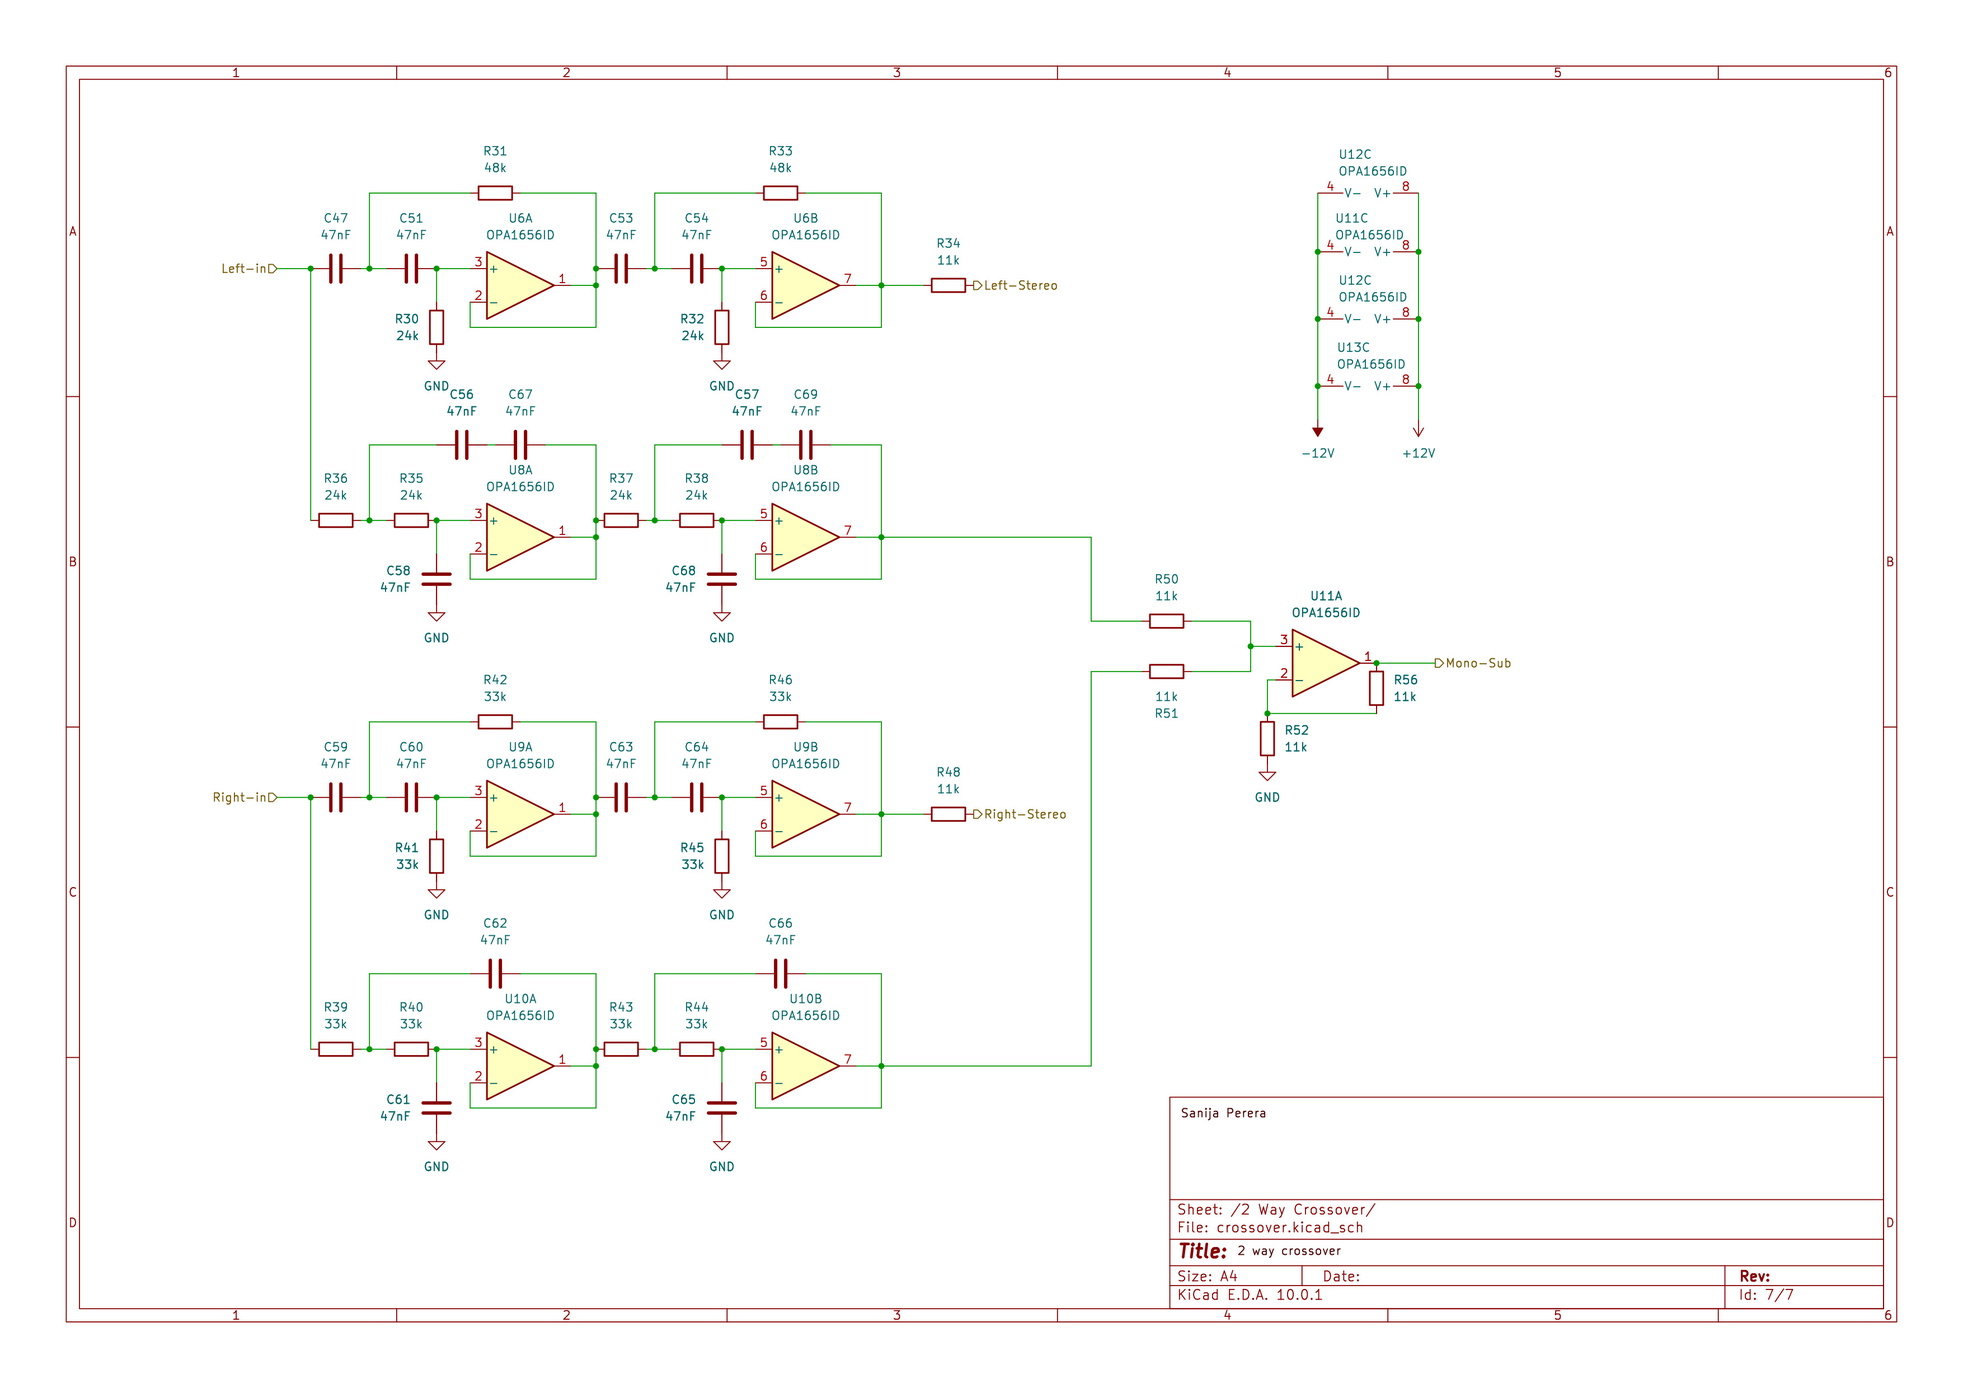
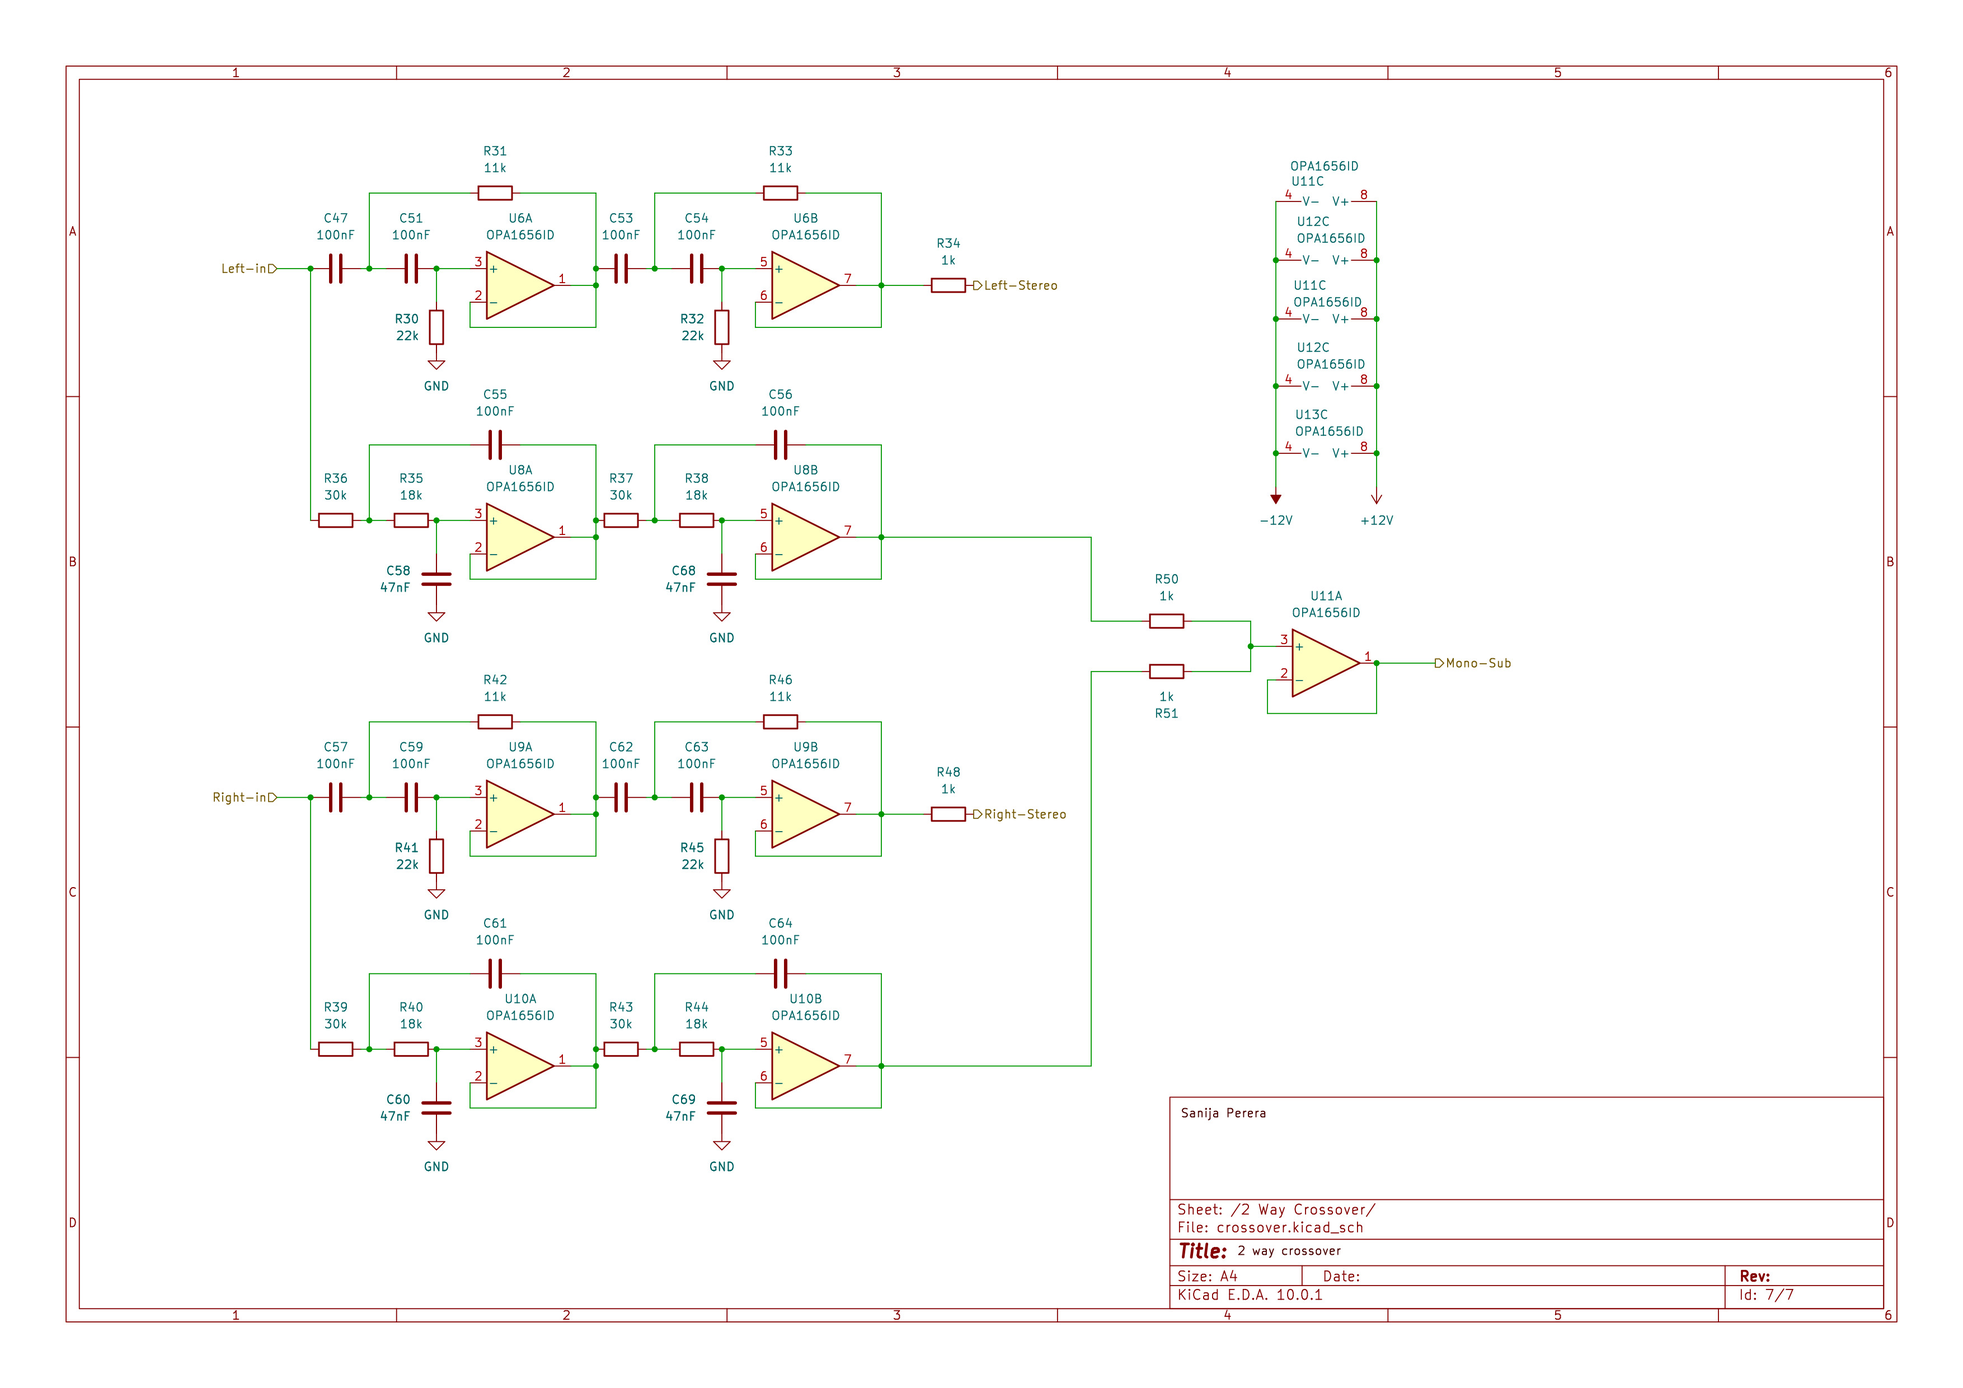
Value fixes

diff --git a/_posts/2026-05-07-Sound-System-Crossover-Design.md b/_posts/2026-05-07-Sound-System-Crossover-Design.md
@@ -6,125 +6,143 @@ tags: [Sound System, Project]
 ---
 
 
-# Sound System Project - Crossover Design
-
 >**Disclaimer:
 >This project involves high-power electronics, including circuits that can carry dangerous voltages and currents. Improper design, construction, or handling may result in electric shock, burns, fire, equipment damage, or personal injury. The information shared here is for educational and documentation purposes and is not a complete guide. Therefore it should not be followed blindly. Stay safe.**
 
   
 
-## Background
+# Background
 
-One of the most important parts of a sound system is the crossover. This is what allows the sound to be split up based on frequency and sent to corresponding drivers. Speakers are designed to play in certain frequency ranges (you can see this by searching speaker drivers in digikeys and looking at the different frequency ranges), so to ensure that audio stays within the range of each speaker the crossover must split the frequencies into the correct bandwidth corresponding to the speakers. If speakers are playing frequencies outside of their recommended bandwidth sound can be distorted muddy or even cause damage to the drivers. The system I am designing is a 2.1 (2 channels setup with a subwoofer) in which audio signals have to be split into the low range for the subwoofer, while everything else is sent to the 2 stereo output channels. It is also important to keep the left and right channels isolated to preserve the stereo image. Since there is only one subwoofer the 2 channels have to be summed to create a mono channel.
+One of the most important parts of a sound system is the crossover. This is what allows the sound to be split up based on frequency and sent to corresponding drivers. Speakers are designed to play in certain frequency ranges (you can see this by searching speaker drivers in Digikey and looking at the different frequency ranges), so to ensure that audio stays within the range of each speaker the crossover must split the frequencies into the correct bandwidth corresponding to the speakers. If speakers are playing frequencies outside of their recommended bandwidth sound can be distorted muddy or even cause damage to the drivers. The system I am designing is a 2.1 (2 channels setup with a subwoofer) in which audio signals have to be split into the low range for the subwoofer, while everything else is sent to the 2 stereo output channels. It is also important to keep the left and right channels isolated to preserve the stereo image. Since there is only one subwoofer the 2 channels have to be summed to create a mono channel.
 
   
 
 ![schematic]({{ 'assets/images/2026-05-07 schematic.jpg' | relative_url }})
 
-<center>2 way crossover design schematic. As I am new to crossover design I largely used a design I found [here](https://sound-au.com/project09.htm). Feel free to check it out as it also has some pretty good explanations as to how it works.</center>
+<center>
+2 way crossover design schematic. As I am new to crossover design I largely used a design I found 
+<a href="https://sound-au.com/project09.htm">here</a>. 
+Feel free to check it out as it also has some pretty good explanations as to how it works.
+</center>
 
   
 
-## Design and Consideration
+# Design and Consideration
 
-This specific design implements a Linkwitz Riley crossover. It takes advantage of 4th order filters (24 dB/octave) to split audio into each speaker. The cuircuit contains 2 identical sections, one for each input channel (left and right). Like stated before the lows of each input channel are summed at the end using an op amp based summer to create the mono subwoofer output channel.
+This specific design implements a Linkwitz Riley crossover. It takes advantage of 4th order filters (24 dB/octave) to split audio into each speaker. The circuit contains 2 identical sections, one for each input channel (left and right). Like stated before the lows of each input channel are summed at the end using an op amp based summer to create the mono subwoofer output channel.
 
-Common crossover frequencies for 2 way crossovers range from 80Hz to 120Hz. Through research I found that higher frequencies lead to subwoofer sounding localized. This is where the user can audibly "hear" the location of the subwoofer or hearing the bass coming from a specific spot in the room rather than it sounding uniformly distributed. I decided to go with a slightly higher frequency since I plan on using slightly less capable stereo drivers. I don't want them to have a hard time producing lower frequencies, and having a higher crossover frequency allows me to bypass that issue. Feel free to change values for the frequency, I included calculations for both 80Hz and 100Hz below.
+Common crossover frequencies for 2 way crossovers range from 80Hz to 120Hz. Through research I found that higher frequencies lead to subwoofer sounding localized. This is where the user can audibly "hear" the location of the subwoofer or hearing the bass coming from a specific spot in the room rather than it sounding uniformly distributed. I decided to go with a slightly higher frequency since I plan on using slightly less capable stereo drivers. I don't want them to have a hard time producing lower frequencies, and having a higher crossover frequency allows me to bypass that issue. **I have my design for 100Hz but feel free to change components to make it whatever you want. I included a tool for finding component values below.**
 
-### What are Linkwitz-Riley and Butterworth?
+## What are Linkwitz-Riley and Butterworth?
 
-A Linkwitz-Riley crossover is constructed by cascading two identical Butterworth filters, one for the low-pass path and one for the high-pass path. 
+A 4th-order Linkwitz–Riley crossover is formed by cascading two identical 2nd-order Butterworth filter stages in each signal path (low-pass and high-pass). The resulting overall response has a −6 dB crossover point (both filter responses intersect) and sums to a flat response that is in phase.
 
-**Butterworth filters** are commonly used because of their maximally flat passband response. This means they introduce no ripple or peaks in the frequencies they pass, the signal comes through as cleanly as possible before the cutoff begins. 
-
+**Butterworth filters** are commonly used because of their maximally flat passband response. This means they introduce no ripple or peaks in the frequencies they pass, the signal comes through as cleanly as possible before the cutoff begins. A 2nd-order Butterworth filter section has a Q factor of approximately 0.707, which produces the maximally flat response characteristic.
+ 
 **Linkwitz-Riley crossovers** take two of these Butterworth filters (one low-pass, one high-pass, matched to the same cutoff frequency) and cascade each one with a copy of itself. This cascading doubles the filter order, which sharpens the cutoff significantly, while also producing outputs that are phase-aligned at the crossover point, allowing the summed response to remain flat. 
 
 The 4th order (24 dB/octave) slope produced by this cascading also means very steep attenuation beyond the cutoff, keeping unwanted frequencies away from each driver and maintaining a controlled overlap region around the crossover frequency.
 
-Each individual filter section in this design is implemented using a **Sallen-Key topology**. Sallen-Key is an active filter configuration built around a single op-amp wired as a unity-gain voltage follower, with a resistor-capacitor network forming filter.
+Each individual filter section in this design is implemented using a **Sallen-Key topology**. Sallen-Key is an active filter configuration built around a single op-amp wired as a unity-gain voltage follower, with a resistor-capacitor network forming the filter.
 
-The actual design can be broken into three parts the high pass filters, the lowpass filters and the stereo to mono summer. As stated before the filters use Sallen-Key filters which are cascaded with copies of eachother. Since each Sallen-Key filter is second order (12 dB/octave) cascading them creates a 4th order filter (24 dB/octave) without changing the original cutoff frequency.
+The actual design can be broken into three parts the high pass filters, the lowpass filters and the stereo to mono summer. As stated before the filters use Sallen-Key filters which are cascaded with copies of each other. Since each Sallen-Key filter is second order (12 dB/octave) cascading them creates a 4th order filter (24 dB/octave) without changing the original cutoff frequency.
 
-### Low-Pass Stage
+## Low-Pass Stage
 The low-pass stage places R1 and R2 in the signal path with capacitors sending high frequencies to ground. The op-amp is wired as a unity-gain follower. The RC network increasingly attenuates high frequencies, while the op-amp buffer prevents loading and preserves the intended filter response. Therefore low frequencies pass through to the output.
 
 ![schematic]({{ 'assets/images/2026-05-07 high pass filter.png' | relative_url }})
 
-### High-Pass Stage
+## High-Pass Stage
 The high-pass stage places C1 and C2 in the signal path the, at low frequencies the capacitors have high impedance, attenuating low-frequency signals before they reach the op-amp. Again the op-amp acts as a unity-gain follower.  Therefore high frequencies pass through to the output.
 
 ![schematic]({{ 'assets/images/2026-05-07 low pass filter.png' | relative_url }})
 
-### Op Amp Summer For Subwoofer
+## Op Amp Summer For Subwoofer
 
 The final stage is a simple op amp based non inverting summer. This takes the 2 outputs from each channel's corresponding low pass filter and sums them into a single mono output for the subwoofer.
 
 ![schematic]({{ 'assets/images/2026-05-07 subwoofer summer.png' | relative_url }})
 
-## Calculations
+# Online Crossover Calculator  
 
+> **Component namings are consistent with the images in sections above [low pass](#low-pass-stage) and [high pass](#high-pass-stage)**
+
+[This](http://sim.okawa-denshi.jp/en) is the resource I used for component calculations. I used their [Sallen-Key lowpass filter](http://sim.okawa-denshi.jp/en/OPseikiLowkeisan.htm) and [Sallen-Key highpass filter](http://sim.okawa-denshi.jp/en/OPseikiHikeisan.htm) calculators. To use them click the hyper links and navigate down to "Calculate the R and C values for the Sallen-Key filter at a given frequency and Q factor". Here you are able to enter a frequency and Quality factor Q on the right. ensure that the quality factor radio button is selected and press calculate. This will give you the values for the components.
+> **Note: The calculator find values using standard E12/E24 component values. You might notice that the frequency or Q factor are slightly off from what you entered. Try to keep them as close as possible by changing around the frequency.** 
+
+# Crossover Filter Calculations
+
+>**Note: Values used here are calculated using an online calculator, this is for confirmation.**
+ 
 **Cutoff frequency (general):**
 
-Each 2nd-order Sallen-Key stage is configured for a Butterworth response (Q = 0.707). Cascading identical stages does not change the crossover frequency.
-
+Each 2nd-order Sallen-Key stage is configured for a Butterworth response (Q = 0.707). Cascading two identical stages gives the full 4th-order Linkwitz–Riley response.
+ 
 $$f_c = \frac{1}{2\pi \sqrt{R_1 R_2 C_1 C_2}}$$
-
-> **Note on component ratios for Q = 1/√2 (Butterworth):**
->
-> To achieve Q = 0.707 in a unity-gain Sallen-Key filter, the HPF and LPF stages use *different* strategies:
->
-> - **HPF**: equal capacitors (C1 = C2 = C) with **R2 = 2R1**, giving:
-> $$f_c = \frac{1}{2\pi C \sqrt{R_1 \cdot 2R_1}} = \frac{1}{2\pi C R_1 \sqrt{2}}$$
->
-> - **LPF**: equal resistors (R1 = R2 = R) with **C2 = 2C1**, giving:
-> $$f_c = \frac{1}{2\pi R \sqrt{C_1 \cdot 2C_1}} = \frac{1}{2\pi R C_1 \sqrt{2}}$$
-
+ 
+ 
 ---
-
-### Crossover Frequency: ≈ 82.8 Hz
-
-**High-Pass Filter**: C1 = C2 = 68 nF, R1 = 20 kΩ, R2 = 40 kΩ (= 2 × 20 kΩ in series)
-
-$$f_c = \frac{1}{2\pi \times 68 \times 10^{-9} \times \sqrt{20000 \times 40000}}$$
-
-$$f_c \approx 82.8 \text{ Hz}$$
-
-**Low-Pass Filter**: R1 = R2 = 20 kΩ, C1 = 68 nF, C2 = 136 nF (= 2 × 68 nF in parallel)
-
-$$f_c = \frac{1}{2\pi \times 20000 \times \sqrt{68 \times 10^{-9} \times 136 \times 10^{-9}}}$$
-
-$$f_c \approx 82.8 \text{ Hz}$$
-
+ 
+## Crossover Frequency: ≈ 100 Hz
+ 
+**High-Pass Filter:**
+ 
+C1 = C2 = 100 nF, R1 = 22 kΩ, R2 = 11 kΩ 
+$$f_c = \frac{1}{2\pi \times 100 \times 10^{-9} \times \sqrt{11000 \times 22000}}$$
+ 
+$$f_c = \frac{1}{2\pi \times 100 \times 10^{-9} \times 15{,}556}$$
+ 
+$$f_c \approx 102.3 \text{ Hz}$$
+ 
+$$Q = \frac{1}{2}\sqrt{\frac{R_2}{R_1}} = \frac{1}{2}\sqrt{2} \approx 0.707 \checkmark$$
+ 
 ---
-
-### Crossover Frequency: ≈ 99.8 Hz
-
-**High-Pass Filter**: C1 = C2 = 47 nF, R1 = 24 kΩ, R2 = 48 kΩ (= 2 × 24 kΩ in series)
-
-$$f_c = \frac{1}{2\pi \times 47 \times 10^{-9} \times \sqrt{24000 \times 48000}}$$
-
-$$f_c \approx 99.8 \text{ Hz}$$
-
-**Low-Pass Filter**: R1 = R2 = 24 kΩ, C1 = 47 nF, C2 = 94 nF (= 2 × 47 nF in parallel)
-
-$$f_c = \frac{1}{2\pi \times 24000 \times \sqrt{47 \times 10^{-9} \times 94 \times 10^{-9}}}$$
-
-$$f_c \approx 99.8 \text{ Hz}$$
-
+ 
+**Low-Pass Filter:**
+ 
+Stage U3: R1 = 30 kΩ, R2 = 18 kΩ, C1 = 47 nF, C2 = 100 nF 
+ 
+$$f_c = \frac{1}{2\pi \sqrt{18000 \times 30000 \times 100 \times 10^{-9} \times 47 \times 10^{-9}}}$$
+ 
+$$f_c = \frac{1}{2\pi \times 1.593 \times 10^{-3}}$$
+ 
+$$f_c \approx 99.9 \text{ Hz}$$
+ 
+$$Q = \frac{\sqrt{R_1 R_2 \cdot C_1/C_2}}{R_1 + R_2} = \frac{\sqrt{18000 \times 30000 \times (100/47)}}{48000} = \frac{33{,}897}{48{,}000} \approx 0.706 \checkmark$$
+ 
 ---
+ 
+## Component Summary
+ 
+| Target | Type | R1 | R2 | C1 | C2 | Actual fc |
+|--------|------|----|----|-----|-----|-----------|
+| ≈ 100 Hz | High-Pass | 22 kΩ | 11 kΩ | 100 nF | 100 nF | 102.3 Hz |
+| ≈ 100 Hz | Low-Pass  | 30 kΩ | 18 kΩ | 47 nF | 100 nF  | 99.9 Hz  |
+ 
+> **The small difference between HPF (102.3 Hz) and LPF (99.9 Hz) crossover frequencies is a consequence of using standard E12/E24 component values. Both paths are within 2.5% of 100 Hz.**
 
-### Component Summary
+# Limitations
 
-| Frequency | Type | R1 | R2 | C1 | C2 | Actual frequency |
-|--------|------|----|----|-----|-----|------------|
-| ≈ 80 Hz | High-Pass | 20 kΩ | 40 kΩ | 68 nF | 68 nF | 82.8 Hz |
-| ≈ 80 Hz | Low-Pass  | 20 kΩ | 20 kΩ | 68 nF | 136 nF | 82.8 Hz |
-| ≈ 100 Hz | High-Pass | 24 kΩ | 48 kΩ | 47 nF | 47 nF | 99.8 Hz |
-| ≈ 100 Hz | Low-Pass  | 24 kΩ | 24 kΩ | 47 nF | 94 nF | 99.8 Hz |
+## Crossover Frequency Mismatch
 
-> R2 in each HPF is two R1 resistors in series; C2 in each LPF is two C1 capacitors in parallel.
-> Each row represents one stage, cascade two identical stages per path for the full 4th-order LR response.
+A Linkwitz-Riley crossover performs best when the low-pass and high-pass sections share the same cutoff frequency. When both sections are closely matched, their phase and amplitude responses combine to produce a nearly flat summed output through the crossover region.
 
-## Next Steps
+In this design, the target crossover frequency was chosen within the 80–120 Hz range. The resulting cutoff frequencies are approximately **99.9 Hz** for the low-pass section and **102.3 Hz** for the high-pass section. This small mismatch is a result of using standard **E12 and E24 series** resistor and capacitor values. These are common and widely available component series, but they only provide discrete values, making it difficult to achieve an exact target frequency without combining components or using higher-precision parts.
 
-Next I plan on running spice simulations to ensure that all the circuitry is working as intended. I will also complete the amplifiers and hopefully soon start some pcb layouts. I also completed majority of the part selection so I will leave an update on that soon.
+The values selected are the closest practical matches provided by the online calculator referenced earlier, resulting in a difference of approximately 2.4 Hz between the two filter sections.
+
+### Effect on Linkwitz-Riley Behaviour
+
+Because the crossover frequencies are not perfectly identical, the crossover will not behave as a mathematically ideal Linkwitz-Riley design. However, the mismatch is relatively small, so the practical impact is expected to be minimal.
+
+Some possible effects include:
+
+- **Slight deviation from perfectly flat summation**: Around the crossover region, the low-pass and high-pass outputs may not combine into a perfectly flat response. Any resulting dip or variation is expected to be small.
+- **Minor phase offset near crossover**: Since the two sections do not reach their −6 dB points at exactly the same frequency, there may be a small phase difference between the outputs near the crossover region.
+- **Butterworth characteristics remain intact within each stage**: Each individual filter stage still maintains the intended Butterworth response because the internal component ratios preserve the target quality factor of approximately 0.707.
+
+## Practical Impact
+
+In practice, a 2.4 Hz difference is relatively minor, corresponding to roughly 2.4% of the target crossover frequency. Real-world speaker systems already contain additional sources of variation such as driver tolerances, acoustic placement, enclosure effects, and room acoustics, so this small electrical mismatch is unlikely to produce a noticeable audible issue in most applications. The magnitude of these effects will become more evident through SPICE simulation. 
+
+If greater precision is required, the cutoff frequencies could be matched more closely by using E96 series resistors, combining components in series or parallel, or incorporating adjustable trimmer components.
